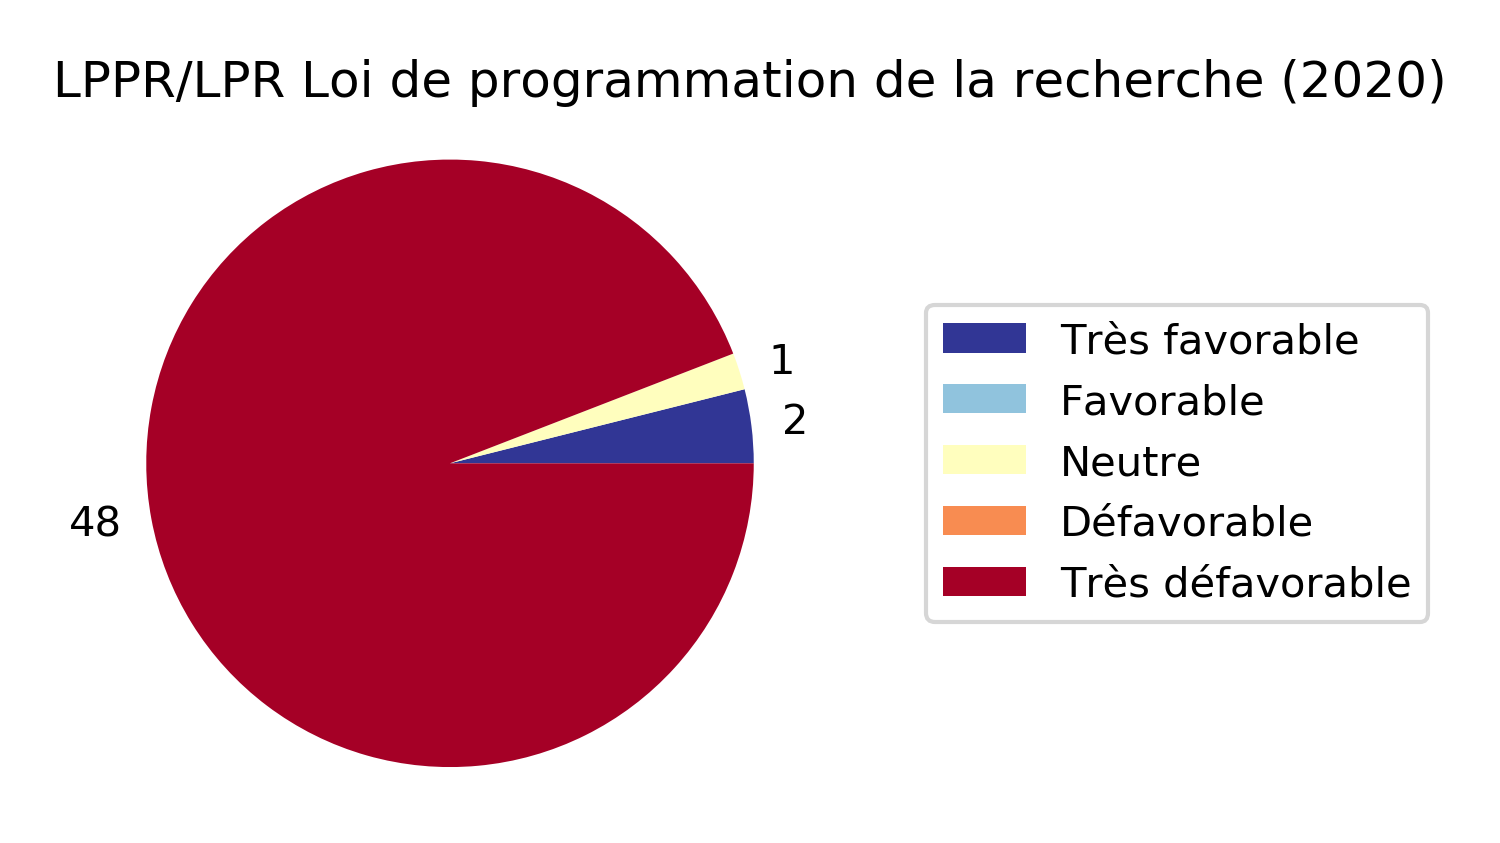
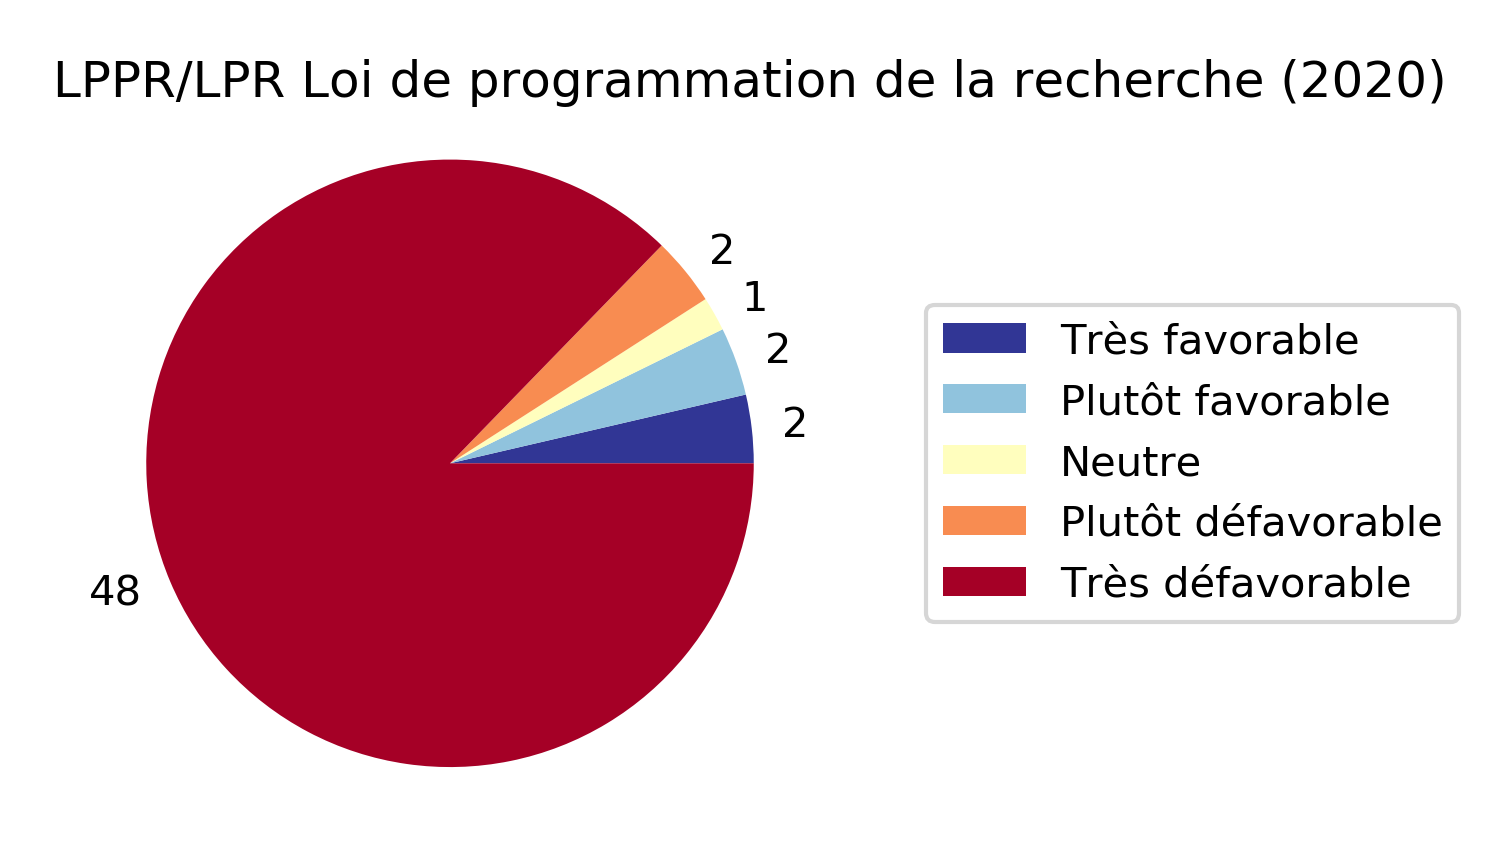
amélioration image

diff --git a/depotools.py b/depotools.py
@@ -150,7 +150,7 @@ def update_zotero(refs, libid, colid, apikey):
 
 def make_chart(refs, objet):
     df = pd.DataFrame(refs)
-    cat = pd.CategoricalDtype(categories=['Très favorable','Favorable','Neutre','Défavorable','Très défavorable'],
+    cat = pd.CategoricalDtype(categories=['Très favorable','Plutôt favorable','Neutre','Plutôt défavorable','Très défavorable'],
                                   ordered = True)
     df.position = df.position.astype(cat)
     counts = df.loc[df['objet'] == objet].position.value_counts(sort=False)
